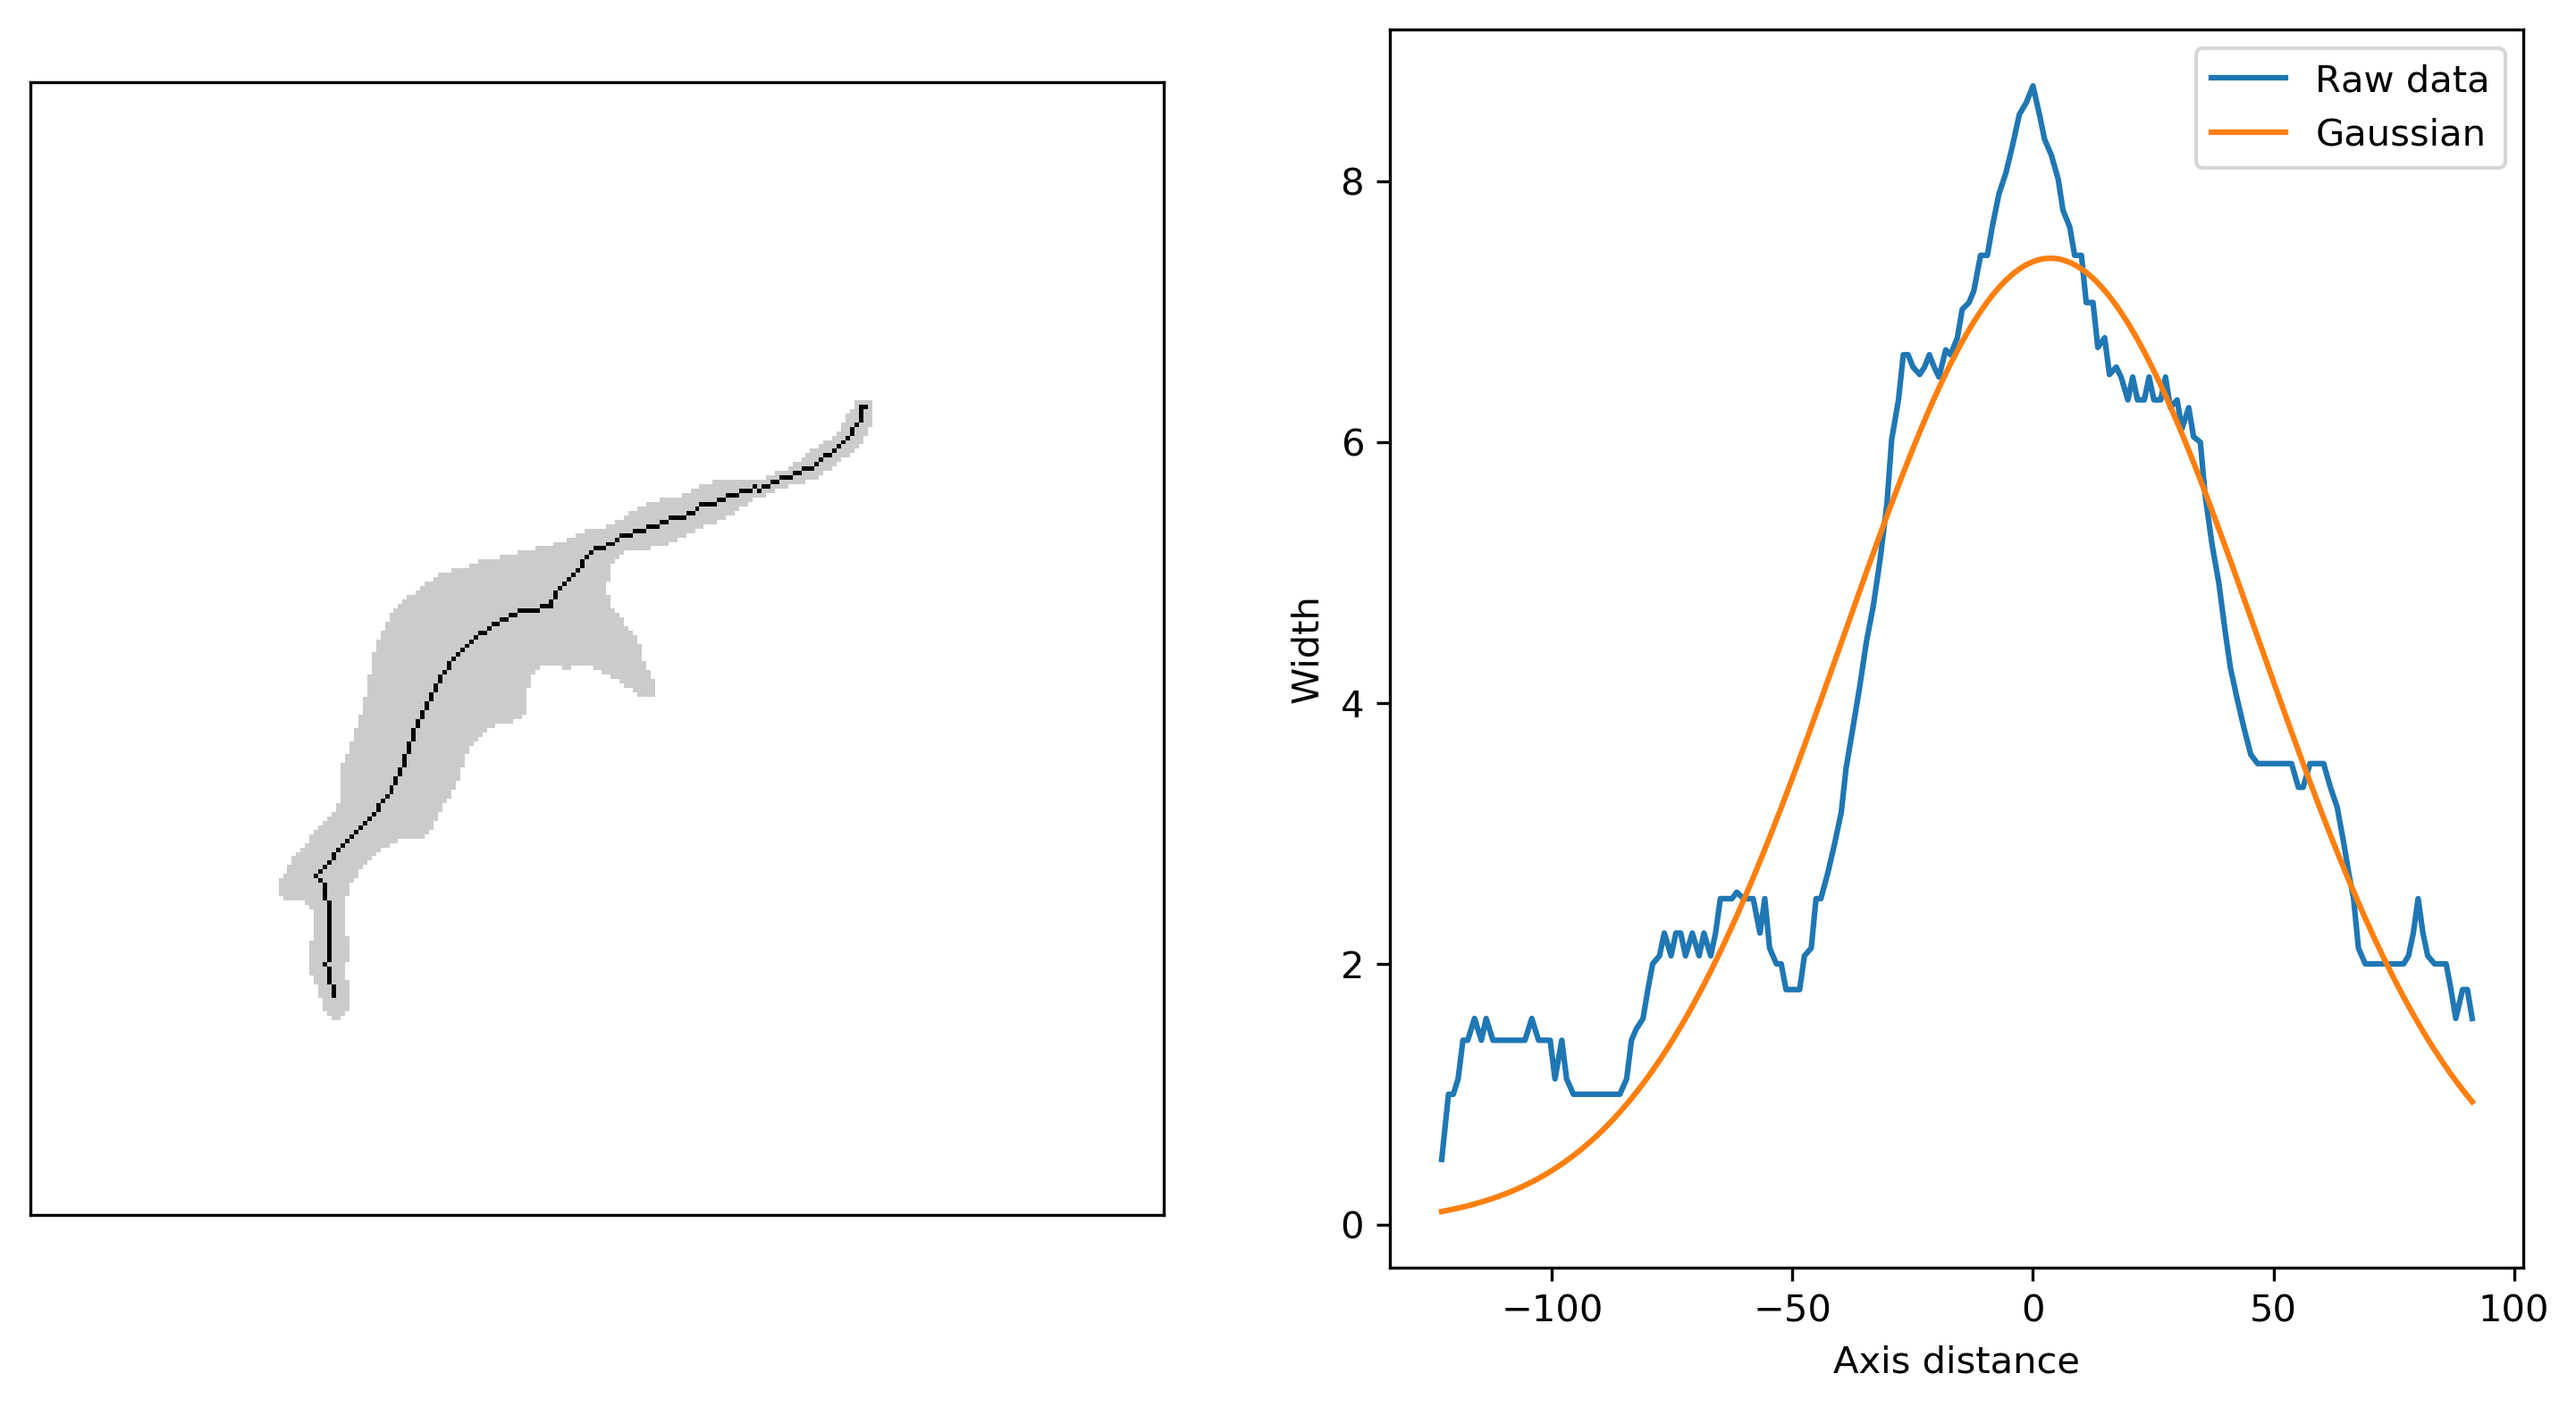
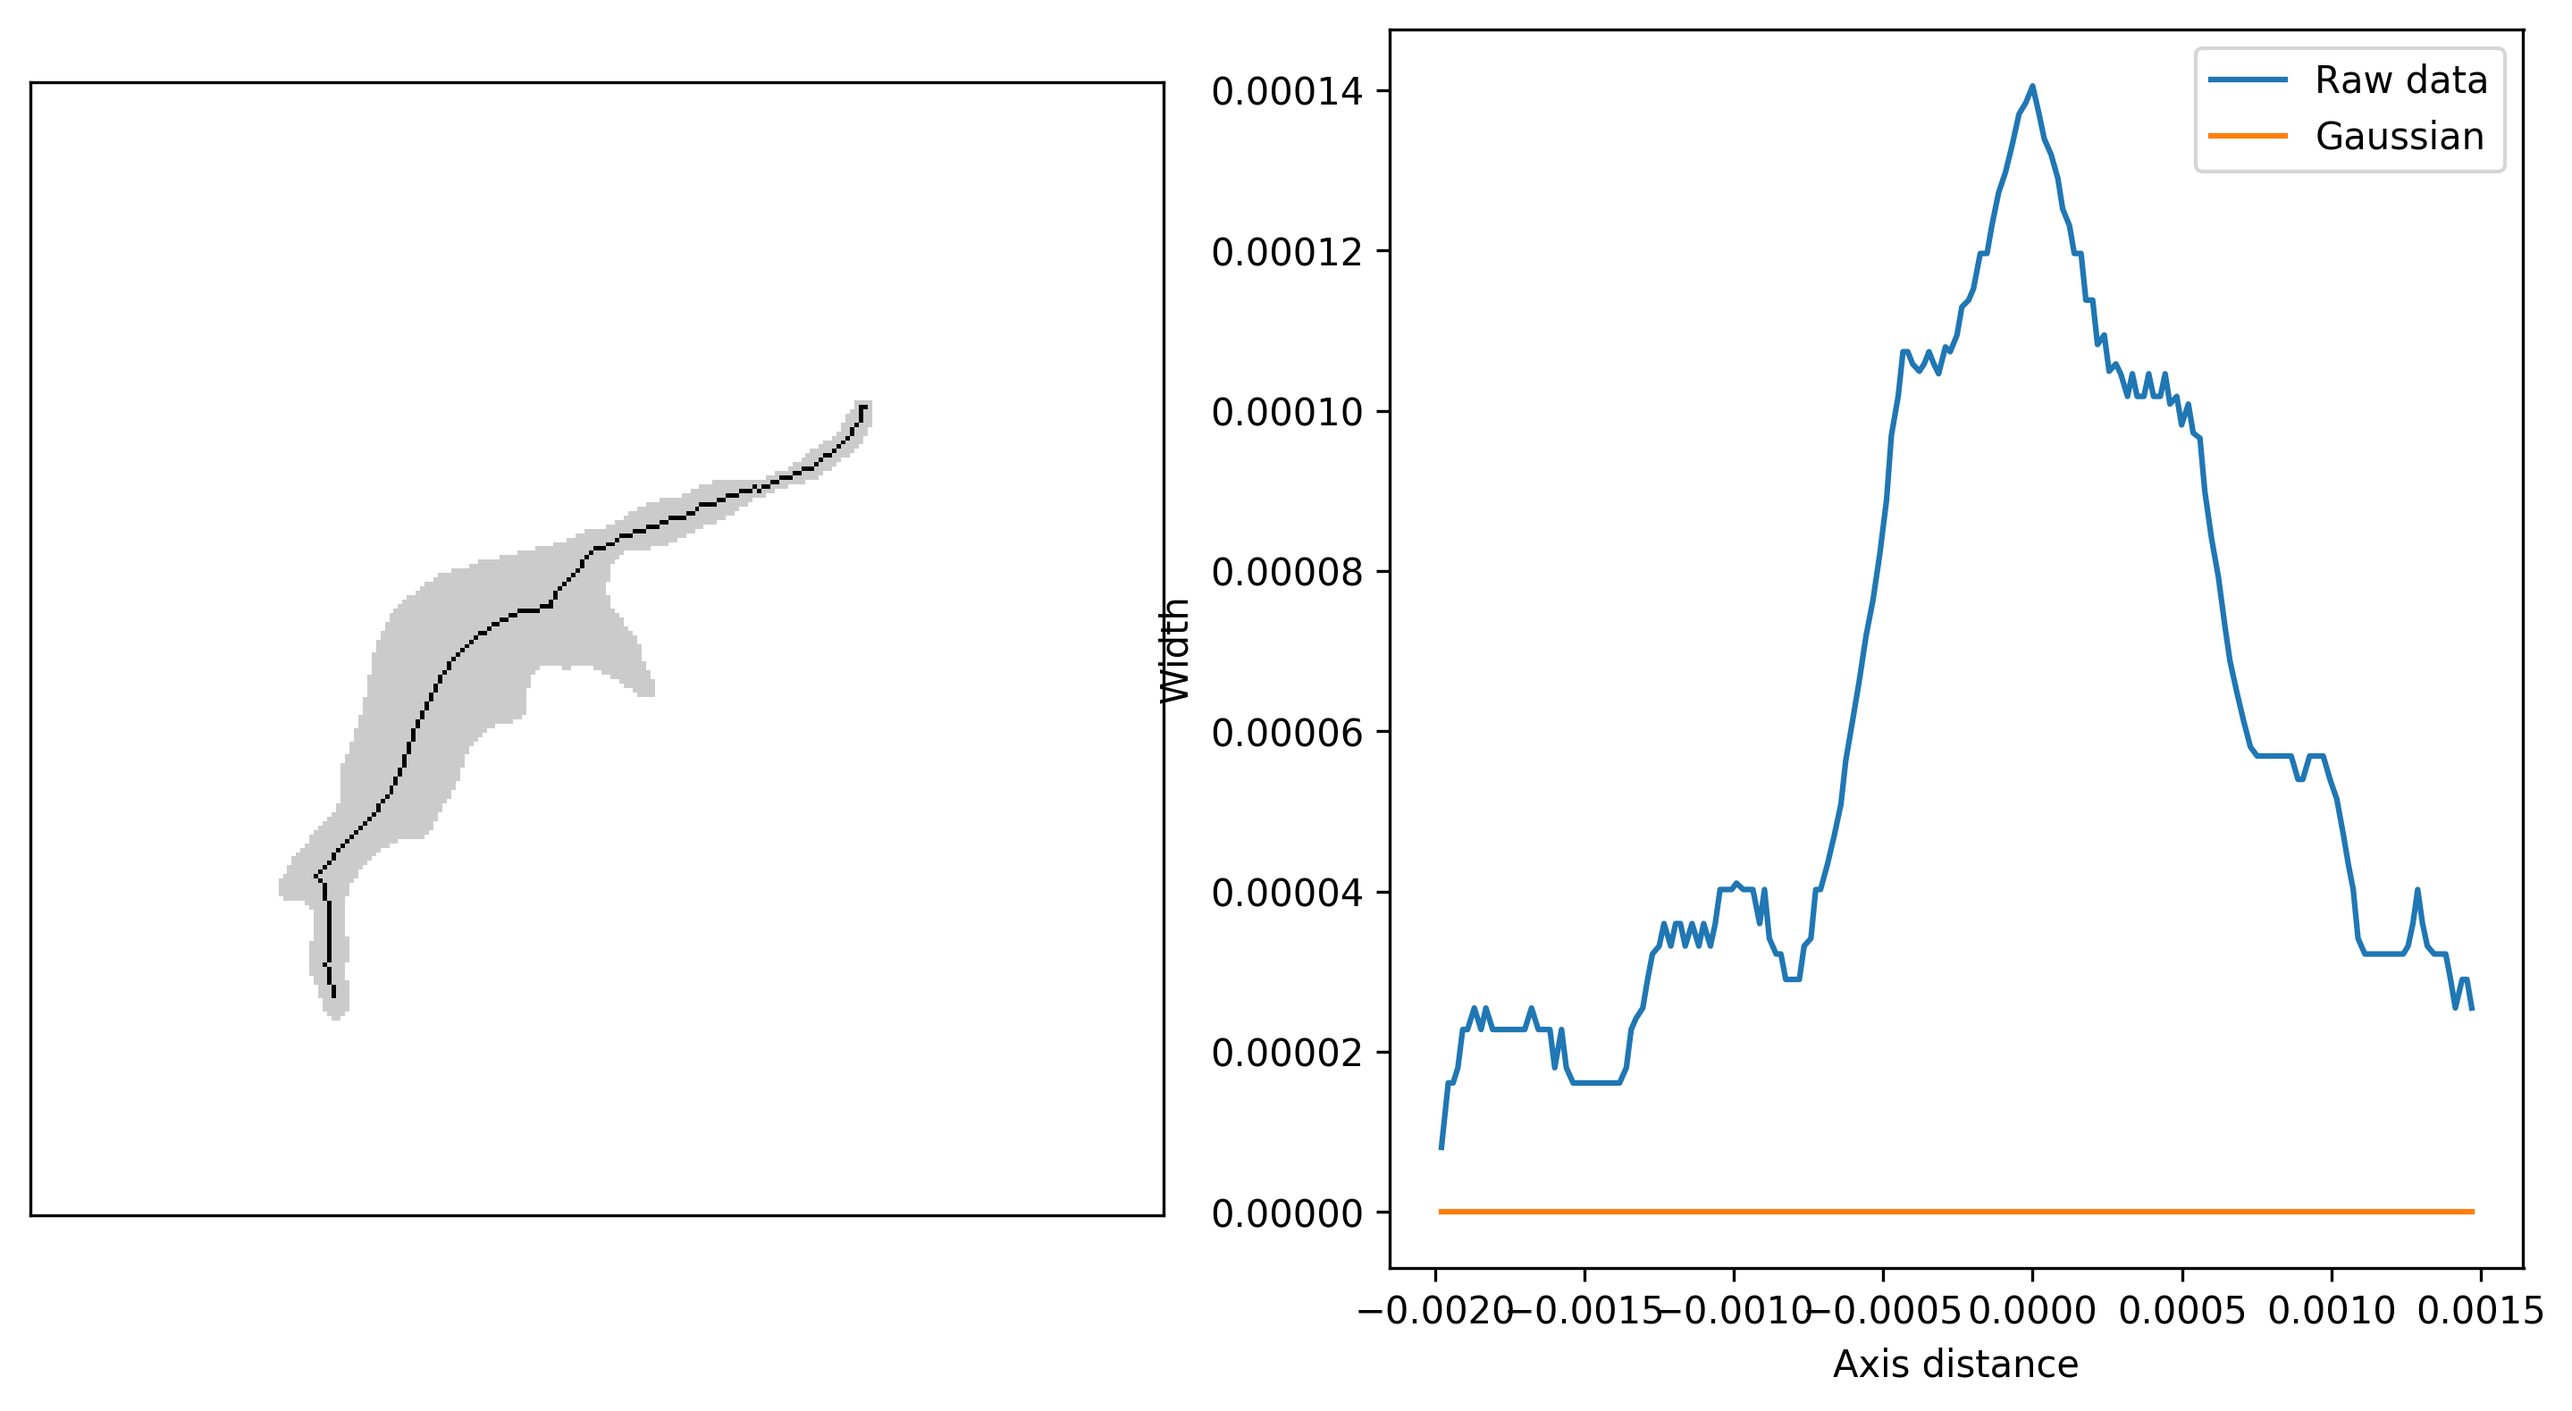
Area

diff --git a/CharacteriseShape.py b/CharacteriseShape.py
@@ -5,10 +5,7 @@ from math import sqrt
 import cv2
 from skimage.util import invert
 from skimage.morphology import medial_axis
-#from scipy.optimize import curve_fit
 from astropy import modeling
-#from scipy import interpolate, integrate, optimize
-#import os
 
 # Function to import image and generate bw image
 def read_cell(file):
@@ -27,6 +24,15 @@ def med_axis(bw_image):
 
 # Create black and white image
 originalimage,bw = read_cell(argv[1])
+
+
+# Calculate cell area in terms of pixels
+area = 0
+for i in range(np.shape(bw)[0]):
+    for j in range(np.shape(bw)[1]):
+        if bw[i,j] == 255:
+            area = area+1
+
 # Create medial axis from imported image
 maxis = med_axis(bw)
 
@@ -178,12 +184,17 @@ for i,pixel in enumerate(longestRoute[1:]):
     ys[i+1] = longestRouteWidths[i+1]
 
 
+
+
 #%%
 
 # Adjust distances along axis such that widest point is at 0
 # Therefore fitted mean value is always around 0
 peakdist = xs[np.argmax(longestRouteWidths)]
 xs = xs - peakdist
+
+xs = xs/area
+ys = ys/area
 
 #Fit Gaussian to width data
 fitter = modeling.fitting.LevMarLSQFitter()
